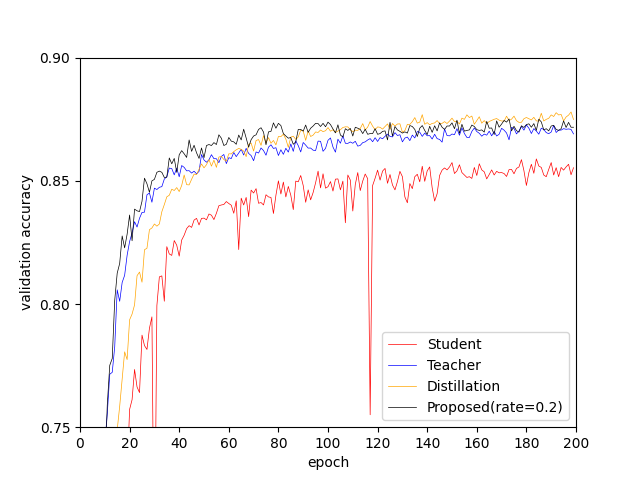
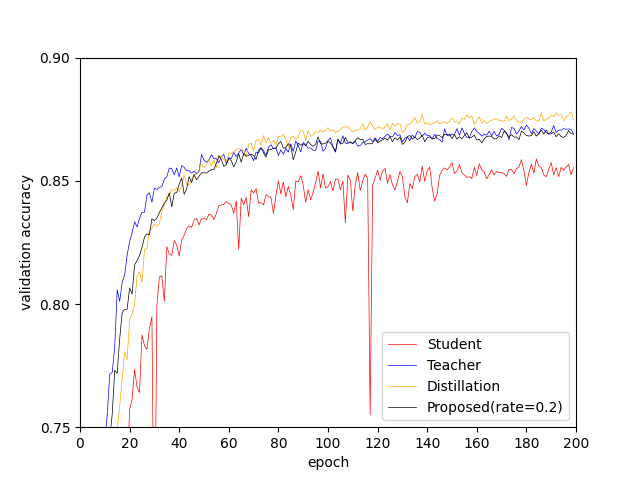
cam

diff --git a/result.py b/result.py
@@ -16,7 +16,7 @@ def main():
     teacher_acc = load_hist(teacher_path, epochs, 5)
     st_acc = load_hist(st_path, epochs, 3)
     # cam01_acc = load_hist(cam01_path, epochs, 1)
-    cam02_acc = load_hist(cam02_path, epochs, 1)
+    cam02_acc = load_hist(cam02_path, epochs, 3)
     
     # print test accuracy
     student_avg = load_avg_test(student_path, epochs, 1)
@@ -27,8 +27,8 @@ def main():
     st_best = load_best_test(st_path, epochs, 3)    
     # cam01_avg = load_avg_test(cam01_path, epochs, 1)
     # cam01_best = load_best_test(cam01_path, epochs, 1) 
-    cam02_avg = load_avg_test(cam02_path, epochs, 1)
-    cam02_best = load_best_test(cam02_path, epochs, 1)
+    cam02_avg = load_avg_test(cam02_path, epochs, 3)
+    cam02_best = load_best_test(cam02_path, epochs, 3)
     
     print('| Student                  | avg: ' + str(student_avg)  + ' | best: ' + str(student_best) + ' |')
     print('| Teacher                  | avg: ' + str(teacher_avg)  + ' | best: ' + str(teacher_best) + ' |')

diff --git a/train_cam.py b/train_cam.py
@@ -15,7 +15,7 @@ from src.kd_loss.cam_loss import CAMLoss
 import pickle
 
 def main():
-    for i in range(1):
+    for i in range(1, 3):
         print(i)
         cam_rate = '02' # default: '02', CAM-curriculum: '00', '000'
         epochs = 200
